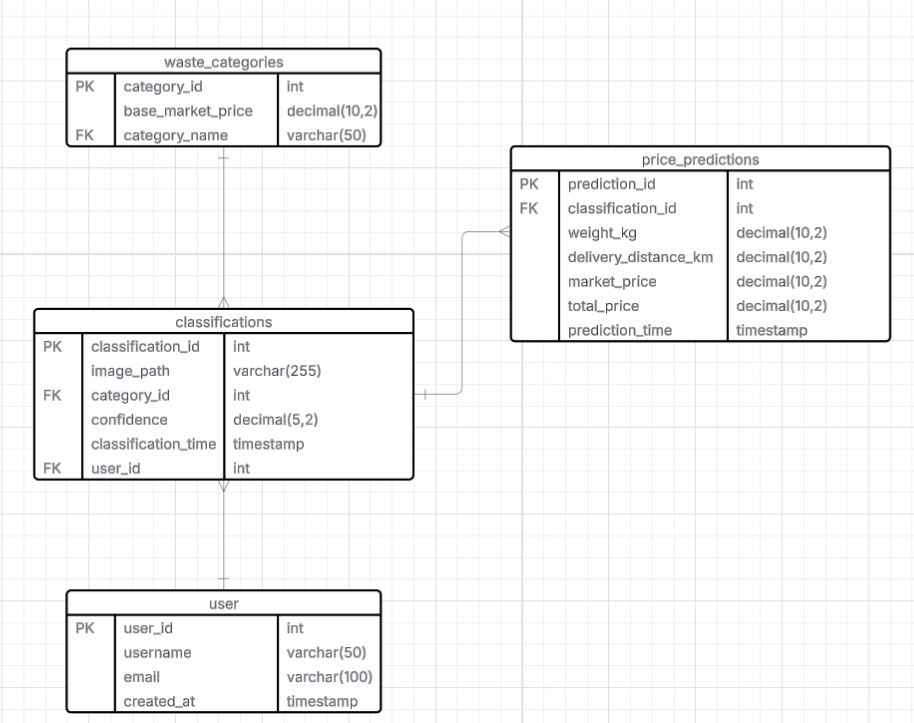
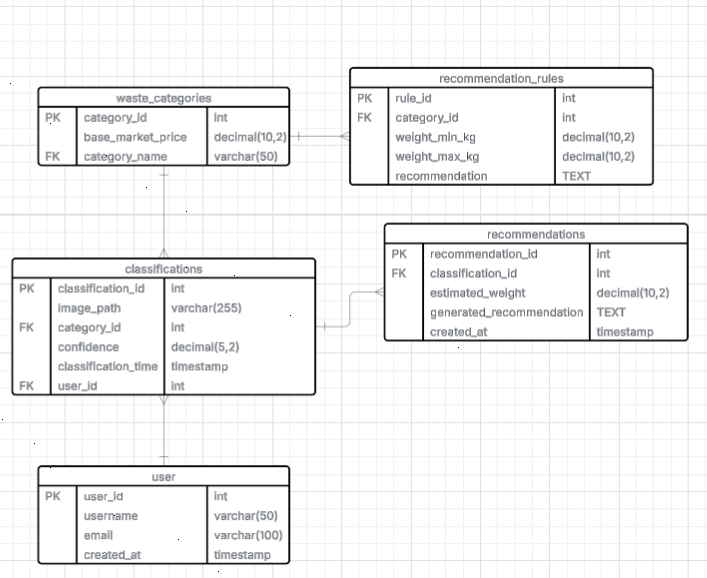
update from the merge

Changed region(s): [[0.0, 0.0623, 0.9958, 0.9965], [0.3423, 0.3426, 0.4045, 0.3737]]

diff --git a/README.MD b/README.MD
@@ -15,7 +15,7 @@ The model is trained using the [RealWaste dataset](https://archive.ics.uci.edu/d
 ## 🚀 Key Features
 
 - **Automated Waste Classification**: Classifies waste types from images with >90% accuracy using MobileNetV2.
-- **Price Estimation**: Predicts the value of recyclable materials based on type, weight, and market price using a neural network.
+- **Recommendation System**: Suggests waste handling actions based on type and weight using supervised learning.
 - **Shipping Cost Calculation**: Estimates shipping costs based on distance.
 - **Interactive GUI**: `testing.py` provides a user-friendly desktop interface for testing.
 - **Web Deployment**: TensorFlow.js models enable browser-based classification and pricing predictions.
@@ -28,17 +28,18 @@ The model is trained using the [RealWaste dataset](https://archive.ics.uci.edu/d
 GreenSort/
 ├── data/
 │   └── realwaste-main/
-│       └── realwaste/                      # RealWaste dataset (download separately)
+│       ├── realwaste/                      # RealWaste dataset (download separately)
+│       └── rekomendasi/                    # Recommendation dataset  
 ├── models/
 │   ├── ComputerVision/
 │   │   ├── greensort_model.h5              # Trained Keras classification model
 │   │   └── tfjs_model/                     # TensorFlow.js models for browser deployment
-│   ├── PriceEst/
-│       ├── greensort_price_model_tf.h5     # Trained Keras pricing model
-│       └── reprocessing_metadata.json      # Metadata for pricing model preprocessing
+│   ├── Sistemrekomendasi/
+│       ├── models/                         # Trained Keras recommendation model
+│       └── dataset.json                    # Dataset for recommendation
 ├── notebooks/
 │   ├── CapstoneDBS_ComputerVision.ipynb    # Notebook for classification model training
-│   └── CapstoneDBS_PricingModel.ipynb      # Notebook for pricing model training
+│   └── CapstoneDBS_SistemRekomendasi.ipynb # Notebook for recommendation model training
 ├── src/
 │   └── utils.py                            # Helper functions for preprocessing and evaluation
 ├── web/
@@ -104,8 +105,8 @@ GreenSort/
 4. **Download the RealWaste dataset** and place it in `data/realwaste/`.
 
 5. **Prepare the trained models**:
-   - Place `greensort_model.h5` and `greensort_price_model_tf.h5` in `models/`.
-   - Or train the models using `notebooks/CapstoneDBS_ComputerVision.ipynb` and `notebooks/CapstoneDBS_PricingModel.ipynb`.
+   - Place `greensort_model.h5` and `recycling_recommendation_model.h5` in `models/`.
+   - Or train the models using `notebooks/CapstoneDBS_ComputerVision.ipynb` and `notebooks/CapstoneDBS_SistemRekomendasi.ipynb`.
 
 ### For Web Deployment
 1. **Install Node.js** (if not already installed):
@@ -123,7 +124,7 @@ GreenSort/
    ```bash
    pip install tensorflowjs
    tensorflowjs_converter --input_format keras models/greensort_model.h5 models/tfjs_model/classification
-   tensorflowjs_converter --input_format keras models/greensort_price_model_tf.h5 models/tfjs_model/pricing
+   tensorflowjs_converter --input_format keras models/recycling_recommendation_model.h5 models/tfjs_model/recommendation
    ```
 
 4. **Set up a web server**:
@@ -138,17 +139,17 @@ GreenSort/
 ## 🔧 Usage
 
 ### 1. Training the Models
-- Open `notebooks/CapstoneDBS_ComputerVision.ipynb` for the classification model and `notebooks/CapstoneDBS_PricingModel.ipynb` for the pricing model in Jupyter Notebook or JupyterLab.
+- Open `notebooks/CapstoneDBS_ComputerVision.ipynb` for the classification model and `notebooks/CapstoneDBS_SistemRekomendasi.ipynb` for the recommendation model in Jupyter Notebook or JupyterLab.
 - Follow the steps to:
   - Preprocess the dataset
   - Train the models (MobileNetV2 for classification, neural network for pricing)
   - Evaluate metrics (accuracy, MAE, R²)
-- Save the models to `../models/ComputerVision/greensort_model.h5` and `../models/PriceEst/greensort_price_model_tf.h5`.
+- Save the models to `../models/ComputerVision/greensort_model.h5` and `../models/Sistemrekomendasi/recycling_recommendation_model.h5`.
 - Convert to TensorFlow.js:
   ```python
   import tensorflowjs as tfjs
   tfjs.converters.save_keras_model(classification_model, 'models/tfjs_model/classification')
-  tfjs.converters.save_keras_model(pricing_model, 'models/tfjs_model/pricing')
+  tfjs.converters.save_keras_model(recommendation_model, 'models/tfjs_model/recommendation')
   ```
 
 ### 2. Testing with the GUI
@@ -351,15 +352,23 @@ GreenSort/
     FOREIGN KEY (user_id) REFERENCES users(user_id) ON DELETE SET NULL
   );
 
-  -- Table: price_predictions
-  CREATE TABLE price_predictions (
-    prediction_id INT PRIMARY KEY AUTO_INCREMENT,
+  -- Tabel referensi rekomendasi
+  CREATE TABLE recommendation_rules (
+    rule_id INT PRIMARY KEY AUTO_INCREMENT,
+    category_id INT NOT NULL,
+    weight_min_kg DECIMAL(10,2) NOT NULL,
+    weight_max_kg DECIMAL(10,2) NOT NULL,
+    recomamendation TEXT NOT NULL,
+    FOREIGN KEY (category_id) REFERENCES waste_categories(category_id)
+  );
+
+  -- Tabel log hasil rekomendasi
+  CREATE TABLE recommendations (
+    recommendation_id INT PRIMARY KEY AUTO_INCREMENT,
     classification_id INT NOT NULL,
-    weight_kg DECIMAL(10,2) NOT NULL,
-    delivery_distance_km DECIMAL(10,2) NOT NULL,
-    market_price DECIMAL(10,2) NOT NULL,
-    total_price DECIMAL(10,2) NOT NULL,
-    prediction_time TIMESTAMP DEFAULT CURRENT_TIMESTAMP,
+    estimated_weight DECIMAL(10,2) NOT NULL,
+    generated_recommendation TEXT NOT NULL,
+    created_at TIMESTAMP DEFAULT CURRENT_TIMESTAMP,
     FOREIGN KEY (classification_id) REFERENCES classifications(classification_id)
   );
   ```

diff --git a/CHANGELOG.md b/CHANGELOG.md
@@ -74,6 +74,23 @@ and this project adheres to [Semantic Versioning](https://semver.org/spec/v2.0.0
 
 ---
 
+## [5.5.2] - 2025-05-06 
+> Created by **Muhammad Rofi'ul Arham**
+
+### 🎉 Added
+-  _N/A_
+
+### 🛠 Changed
+- Update database `web/db/greensort.sql` with changes to add recommendation system
+
+### 🐛 Fixed
+- _N/A_
+
+### 🗑 Removed
+- _N/A_
+
+---
+
 ## [5.5.1] - 2025-05-01 
 > Created by **Muhammad Rofi'ul Arham**
 
